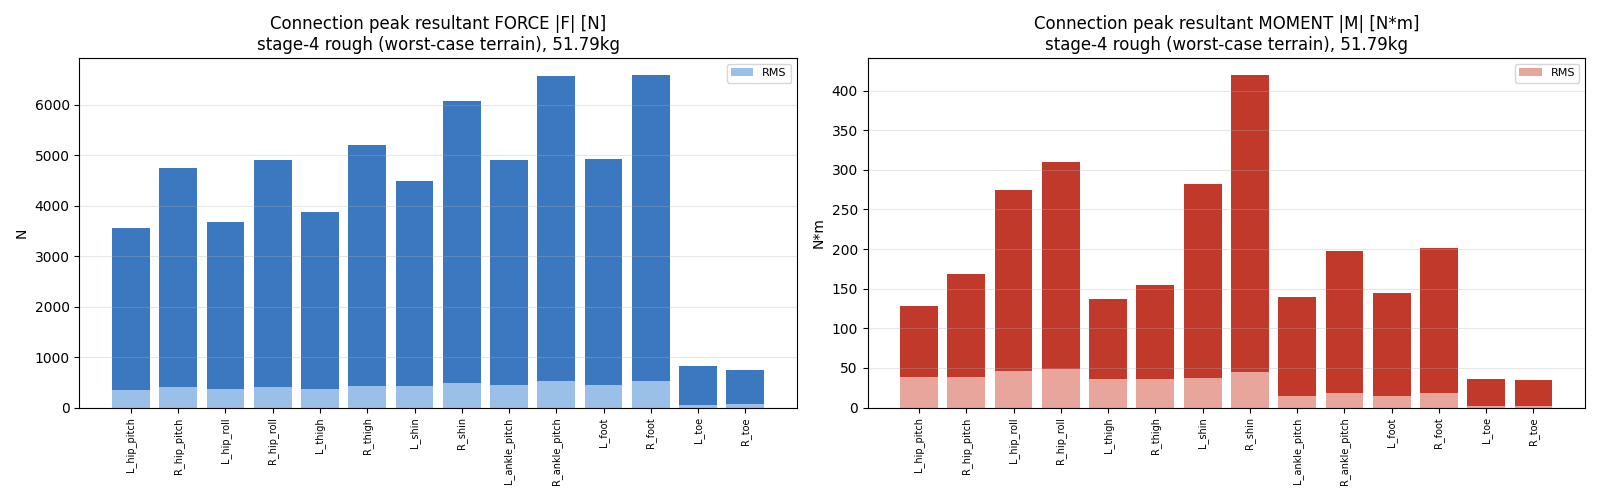
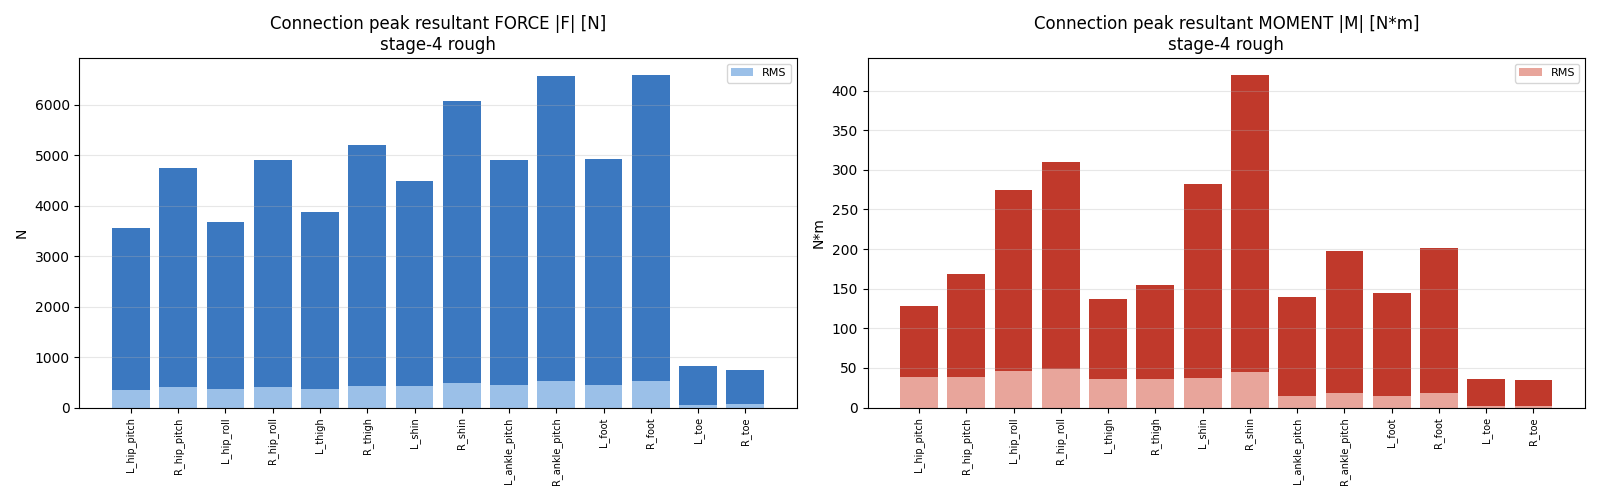
standard per-experiment analysis bundles SPEED + structural with torque util; video tweaks
- analyze_run.sh: one command runs torque util + SPEED(max-rotation, torque-speed) + connection
  structural loads -> the per-experiment motor analysis now always includes speed (not just torque)
- make_run_report + report-rule: analysis section requires analyze_run.sh (speed not optional)
- train.py video: closer overview camera (eye 11->4.5, fewer robots visible) + video_length 200->400 (2x, ~8s)

Changed region(s): [[0.1562, 0.06, 0.4062, 0.12], [0.6562, 0.06, 0.875, 0.12]]

diff --git a/pygmalion_locomotion/scripts/train.py b/pygmalion_locomotion/scripts/train.py
@@ -20,7 +20,7 @@ import cli_args  # isort: skip
 parser = argparse.ArgumentParser(description="Train an RL agent with RSL-RL.")
 parser.add_argument("--video", action="store_true", default=False, help="(legacy) record videos during training.")
 parser.add_argument("--no_video", action="store_true", default=False, help="DISABLE the default in-training video recording.")
-parser.add_argument("--video_length", type=int, default=200, help="Length of the recorded video (in steps).")
+parser.add_argument("--video_length", type=int, default=400, help="Length of the recorded video (in steps). 400 ~= 8s.")
 parser.add_argument("--video_interval", type=int, default=1500, help="Interval between video recordings (in steps, ~60 iters).")
 parser.add_argument("--init_checkpoint", type=str, default=None,
                     help="TRANSFER: initialize policy weights from this checkpoint (fresh optimizer, iter 0). "
@@ -150,8 +150,10 @@ def main(env_cfg: ManagerBasedRLEnvCfg | DirectRLEnvCfg | DirectMARLEnvCfg, agen
     if args_cli.video:
         try:
             env_cfg.viewer.origin_type = "world"
-            env_cfg.viewer.eye = (11.0, -11.0, 8.5)
-            env_cfg.viewer.lookat = (3.0, 3.0, 0.3)
+            # ★ closer overview: frame only a FEW envs so each robot is clearly visible (user: too many
+            #   robots = can't see). Was eye(11,-11,8.5)/lookat(3,3,0.3) which showed a huge grid.
+            env_cfg.viewer.eye = (4.5, -4.5, 3.0)
+            env_cfg.viewer.lookat = (1.2, 1.2, 0.45)
             # per-robot commanded(green)+actual(blue) velocity arrows -> the cmd_vel DR is on-screen
             env_cfg.commands.base_velocity.debug_vis = True
         except Exception as exc:  # pragma: no cover - viewer cfg is best-effort

diff --git a/pygmalion_locomotion/scripts/make_run_report.py b/pygmalion_locomotion/scripts/make_run_report.py
@@ -196,7 +196,9 @@ def main():
         md.append("")
 
     md += ["## 5. 분석 (정성/정량)  **[작성 필요]**",
-           "- 정량: gait(추종·CoT)·관절 토크/파워·toe 사용도·진동(>5Hz)·낙상 — 측정 npz/analyze_motor_util 인용.",
+           "- 정량 (★표준 모터분석 `bash scripts/analyze_run.sh <tag> <clip.npz> [unclip.npz]`): "
+           "**토크 활용률(% 정격/peak)** + **최대회전 속도(% 속도한계)·토크-속도 작동점** + "
+           "**연결부 구조하중(|F|/|M|)** + gait(추종·CoT)·toe 사용도·진동(>5Hz)·낙상.",
            "- 정성: 보행 자연스러움·실패모드·의도한 변경의 효과.", "",
            "## 6. 관련 학습 / 연구 링크  **[작성 필요]**",
            "- 관련 run: [[experiments/<run>]] — *어떤 관계, 무엇을 바꿨고 왜*.",

diff --git a/docs/assets/stage4_rough_link_loads.md b/docs/assets/stage4_rough_link_loads.md
@@ -1,4 +1,4 @@
-# Connection / link structural loads — stage-4 rough (worst-case terrain), 51.79kg
+# Connection / link structural loads — stage-4 rough
 
 | link (connection) | peak \|F\| [N] | RMS \|F\| | peak \|M\| [N·m] | RMS \|M\| | Fx | Fy | Fz | Tx | Ty | Tz |
 |---|---|---|---|---|---|---|---|---|---|---|

diff --git a/docs/assets/stage4_rough_motor_speed.md b/docs/assets/stage4_rough_motor_speed.md
@@ -1,4 +1,4 @@
-# Motor speed + torque-speed — stage-4 rough, 51.79kg
+# Motor speed + torque-speed — stage-4 rough
 
 | joint | peak rpm | RMS rpm | limit rpm | **% speed** | peak \|tau\| | peak W | RMS W |
 |---|---|---|---|---|---|---|---|

diff --git a/docs/assets/stage4_rough_motor_util.md b/docs/assets/stage4_rough_motor_util.md
@@ -1,4 +1,4 @@
-# Motor utilization — stage-4 rough (stairs/slopes), 51.79kg
+# Motor utilization — stage-4 rough
 
 | joint | clip |τ| | unclip |τ| | rated | peak | %rated(clip) | %rated(unclip) | %peak(clip) | %peak(unclip) |
 |---|---|---|---|---|---|---|---|---|---|